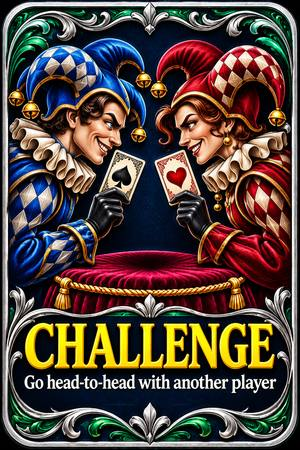
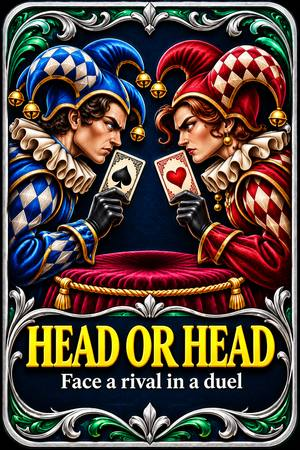
Skill preview: head-to-head card art on the challenge tile; 1 v 1 removed from Live games
Claude-Session: https://claude.ai/code/session_01Jq9AZ6XFVvjfetbWaezcvy

diff --git a/build-skill/cpfix.py b/build-skill/cpfix.py
@@ -26,6 +26,8 @@ rep("  if (spr) T({ icon: KO_PYR2,", "  if (0 && spr) T({ icon: KO_PYR2,")
 # Live games: no steal tiles under the vote (steals come from Steal tiles, the Payday receipt and Compete)
 rep("  if (held) T({ hot: 1, img: held.src, chip: '🃏 Stolen',", "  if (0 && held) T({ hot: 1, img: held.src, chip: '🃏 Stolen',")
 rep("  if (rc && !held) T({ img: rc.src, chip: '🃏 Steal',", "  if (0 && rc && !held) T({ img: rc.src, chip: '🃏 Steal',")
+# head-to-head is now a special tile reveal, so no 1 v 1 tile in the row
+rep("  if (best) T({ pair: [c2NotMine(battleRival(cat).src, cat), best.src], chip: '⚔ 1 v 1',", "  if (0 && best) T({ pair: [c2NotMine(battleRival(cat).src, cat), best.src], chip: '⚔ 1 v 1',")
 # jackpot tile: "Pet challenge"
 rep("chip: st ? `★ ${st} today` : `💰 ${short(k)}`", "chip: st ? `★ ${st} today` : `💰 ${short(k)} challenge`")
 # pick feedback

diff --git a/build-skill/README.md b/build-skill/README.md
@@ -898,3 +898,5 @@ Every steal uses the same full-screen Steal (Live games tile, Payday receipt, Co
 Live games row: Steal / Stolen tiles removed; the jackpot tile chip reads "💰 Pet challenge"; the Friend tile is WhatsApp green with a white icon.
 
 `screens.py` redoes two screens to the user's mock-ups. Rematch: "REMATCH?", both photos with "Score 84" pills (tap yours to change photo), "<part> made the difference", "Choose your entry" $1/$2/$5 with the stars a win earns (doubled for a rematch), one gold Touch up row, green "Rematch for $2", "Win to earn 4 stars · double for a rematch". Quick Sprint: illustrated rival / you avatars (`assets/av_rival.jpg`, `av_you.jpg`; your profile photo replaces yours when set) with the eye % in a red / navy pill.
+
+The Challenge special tile uses the user's head-to-head card art (`assets/challenge.jpg`). The 1 v 1 tile is gone from the Live games row (head-to-head now comes from the tile reveal); the row is Pet challenge and Friend.
